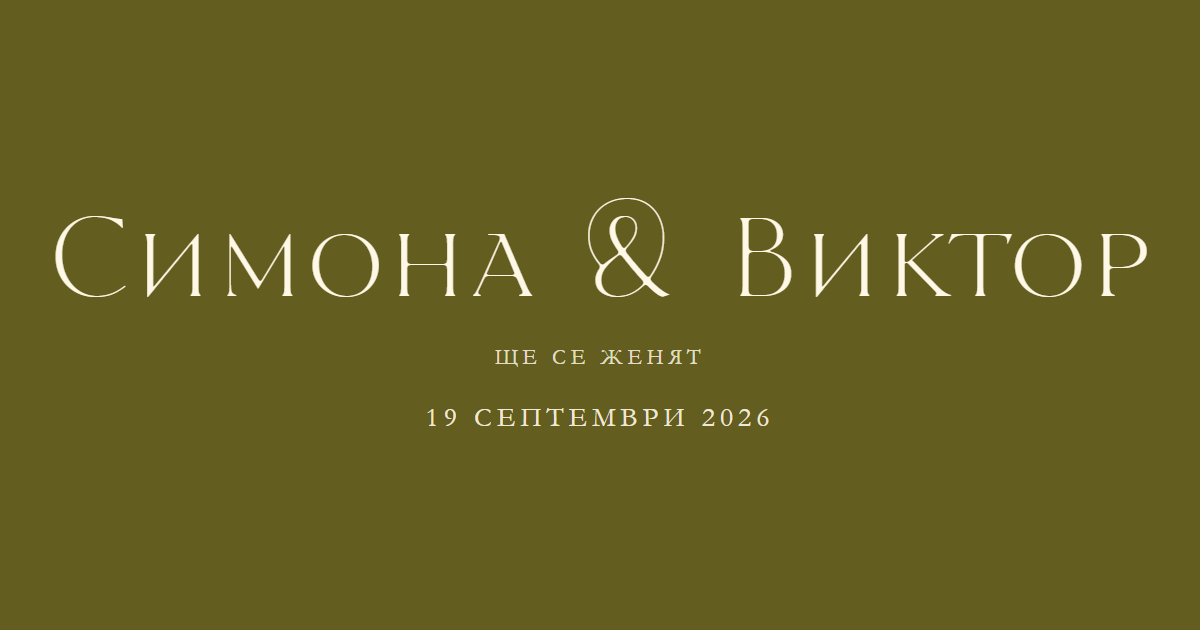
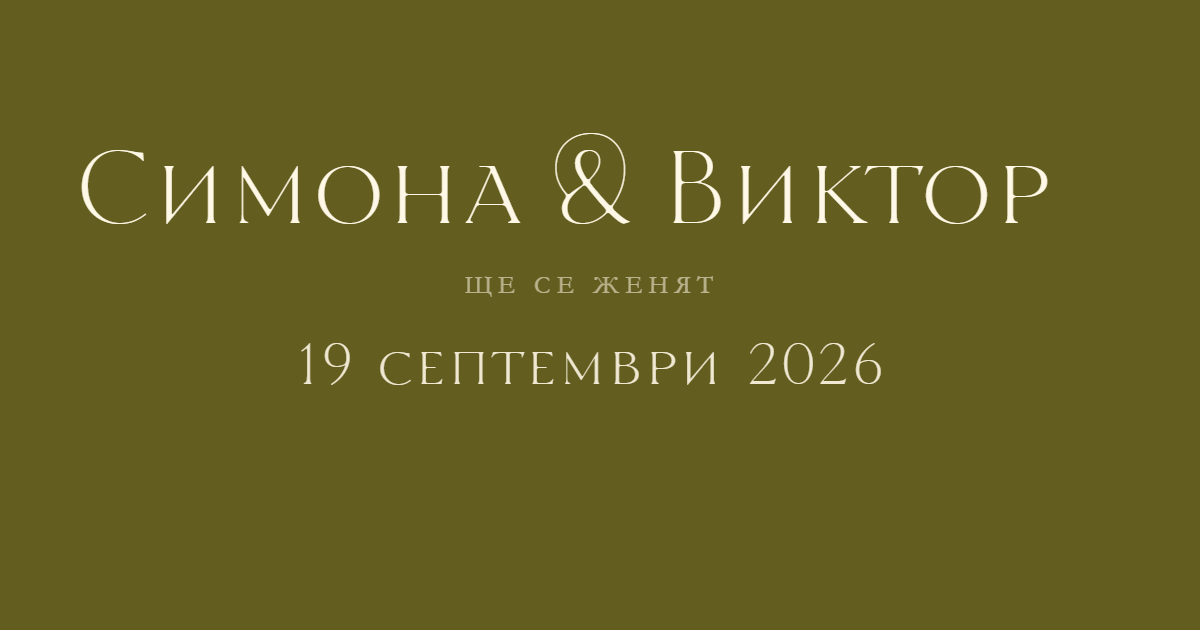
og image final

diff --git a/og-preview-source.html b/og-preview-source.html
@@ -8,52 +8,63 @@
     src: url('fonts/TT Ricordi Trial Nobili.ttf') format('truetype');
   }
   * { margin: 0; padding: 0; box-sizing: border-box; }
-  body {
+  html, body {
     width: 1200px;
     height: 630px;
-    background: #635d1f;
-    display: flex;
-    align-items: center;
-    justify-content: center;
+    margin: 0;
+    padding: 0;
     overflow: hidden;
   }
+  body {
+    background: #635d1f;
+  }
   .card {
+    position: fixed;
+    top: 50%;
+    left: 50%;
+    transform: translate(-50%, -50%);
     display: flex;
     flex-direction: column;
     align-items: center;
-    justify-content: center;
     text-align: center;
     color: #FFF8E7;
-    gap: 0;
+    width: 1040px;
   }
   .names {
     font-family: 'WeddingHeader', 'Georgia', serif;
-    font-size: 112px;
+    font-size: 103px;
     font-weight: 400;
     line-height: 1.08;
     letter-spacing: 0.01em;
     margin-bottom: 28px;
+    display: flex;
+    flex-direction: row;
+    align-items: center;
+    width: 100%;
   }
+  .names span:not(.amp) { flex: 1; }
+  .names span:first-child { text-align: right; }
+  .names span:last-child  { text-align: left; }
+  .names .amp { flex: 0; padding: 0 0.15em; }
   .tagline {
     font-family: 'Garamond', 'Georgia', serif;
-    font-size: 22px;
-    letter-spacing: 0.22em;
+    font-size: 26px;
+    letter-spacing: 0.24em;
     text-transform: uppercase;
-    opacity: 0.82;
-    margin-bottom: 32px;
+    opacity: 0.55;
+    margin-bottom: 24px;
   }
   .date {
-    font-family: 'Garamond', 'Georgia', serif;
-    font-size: 28px;
-    letter-spacing: 0.18em;
-    text-transform: uppercase;
+    font-family: 'WeddingHeader', 'Georgia', serif;
+    font-size: 58px;
+    letter-spacing: 0.04em;
     opacity: 0.9;
   }
 </style>
 </head>
 <body>
   <div class="card">
-    <div class="names">Симона &amp; Виктор</div>
+    <div class="names"><span>Симона</span><span class="amp">&amp;</span><span>Виктор</span></div>
     <div class="tagline">ще се женят</div>
     <div class="date">19 септември 2026</div>
   </div>
